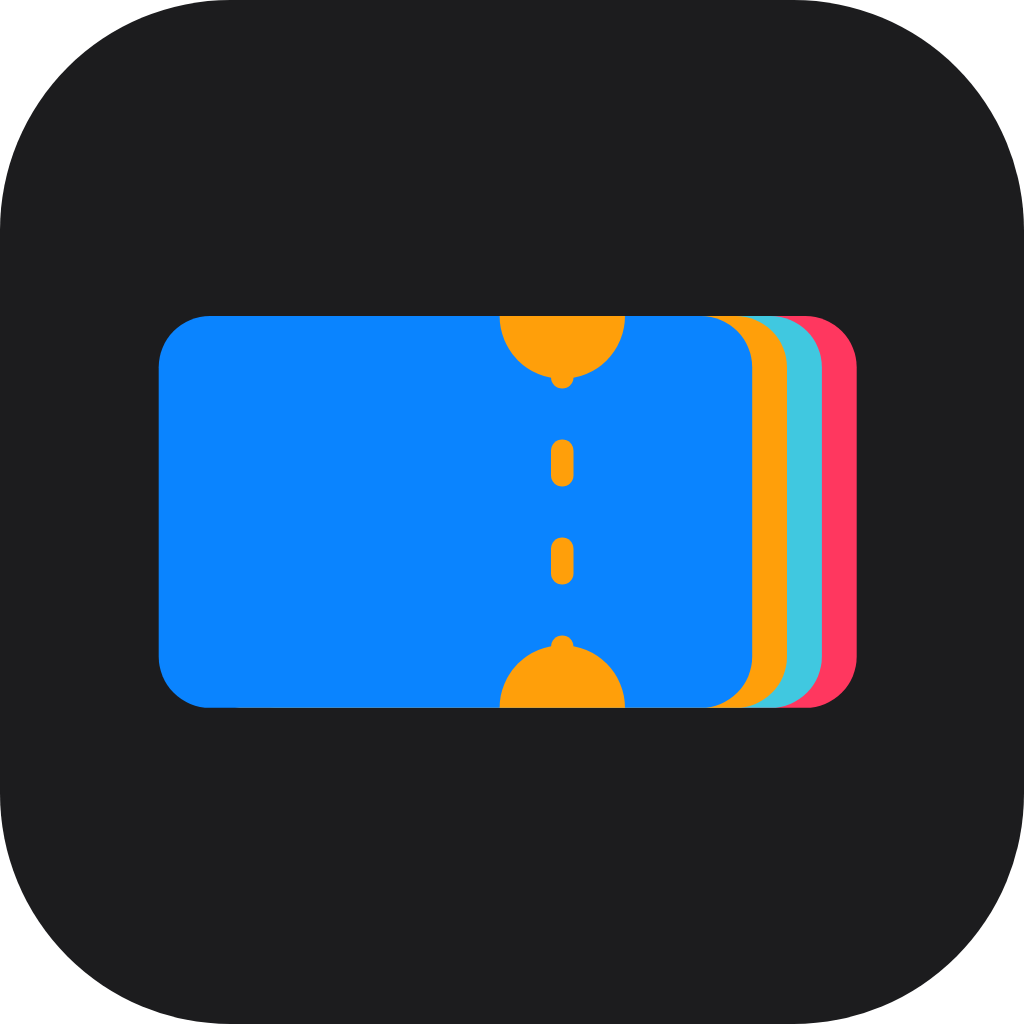
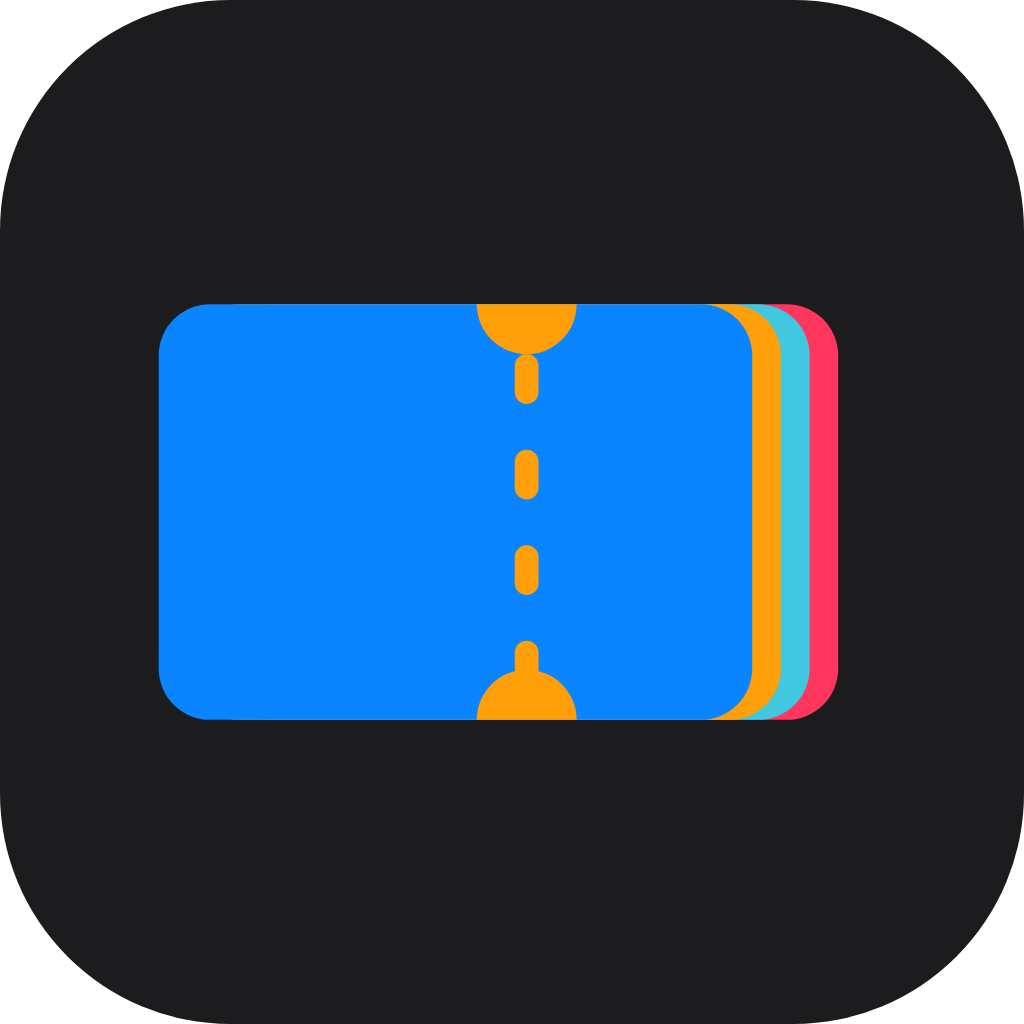
Redraw the mark so it reads as a ticket, and relate the route type to the card
The logo was reported as looking like a capsule. Rendering it at the sizes it is
actually used showed why: the notches were barely a pixel deep at 27px, so all that
survived was a rounded rectangle. Deepening them overcorrected into a bowtie, and
moving the tear line back inboard was needed because the notches cut through every
layer and had been landing on the edges of the cards stacked behind, turning the
right third into a band of competing colour.

Route text was a fixed 27px regardless of viewport, which is what made it overflow
on a desktop window. It now scales with the card.

Changed region(s): [[0.1562, 0.2812, 0.8438, 0.7188], [0.5, 0.4062, 0.5625, 0.5938]]

diff --git a/css/app.css b/css/app.css
@@ -287,8 +287,8 @@ p { margin: 0; }
 
 .bar-mark {
   display: flex;
-  width: 27px;
-  height: 27px;
+  width: 30px;
+  height: 30px;
 }
 
 .bar-mark svg { width: 100%; height: 100%; border-radius: 7px; }
@@ -758,8 +758,8 @@ p { margin: 0; }
 }
 
 .card-route { display: flex; align-items: center; gap: 12px; }
-.card-route .place { font-size: 27px; font-weight: 600; letter-spacing: -0.02em; }
-.card.large .card-route .place { font-size: 34px; }
+.card-route .place { font-size: clamp(21px, 5.8vw, 26px); font-weight: 600; letter-spacing: -0.02em; }
+.card.large .card-route .place { font-size: clamp(26px, 7.4vw, 32px); }
 /* Same reasoning as the pass: a title is not a three-letter code. */
 .card-route .place.single {
   font-size: clamp(15px, 4.4vw, 21px);
@@ -866,7 +866,21 @@ p { margin: 0; }
 .pass-route { display: flex; align-items: center; justify-content: space-between; gap: 14px; }
 .endpoint { min-width: 0; }
 .endpoint.right { text-align: right; }
-.endpoint .code { display: block; font-size: 38px; font-weight: 600; letter-spacing: -0.025em; }
+/*
+ * The route, sized to the card rather than the screen.
+ *
+ * 38px was fixed, which is right on a phone and badly out of proportion in a 620px
+ * column on a desktop — the codes dwarfed everything around them and the hierarchy read
+ * as broken. Scaling with the viewport is no better, since the card does not grow with
+ * it. Clamped values keep the same relationship at both ends.
+ */
+.endpoint .code {
+  display: block;
+  font-size: clamp(26px, 7.4vw, 34px);
+  font-weight: 600;
+  letter-spacing: -0.025em;
+  line-height: 1.05;
+}
 
 /*
  * A single heading — a film, a hotel — rather than an airport code.
@@ -1035,6 +1049,21 @@ p { margin: 0; }
 }
 
 .scan.controls .scan-close { opacity: 1; pointer-events: auto; transform: none; }
+
+/*
+ * Always visible where there is a mouse.
+ *
+ * Hiding the way out until the screen is tapped suits a phone, where the gesture is
+ * natural and the clutter is worth avoiding. With a mouse there is no tap, so the button
+ * simply never appeared and the only exit was the keyboard — the code opened and there
+ * was no way back.
+ */
+@media (hover: hover) and (pointer: fine) {
+  .scan-close { opacity: 1; pointer-events: auto; transform: none; }
+}
+
+/* Keyboard focus must always reveal it, whatever the pointer. */
+.scan-close:focus-visible { opacity: 1; pointer-events: auto; transform: none; }
 
 .scan-hint {
   position: absolute;

diff --git a/js/brand-identity.js b/js/brand-identity.js
@@ -63,12 +63,12 @@ export function markSvg({ size = 512, variant = 'app', bleed = 0.155, colour = n
   const plain = variant === 'plain';
   const p = size * bleed;
   const w = (size - p * 2) * (plain ? 1 : 0.84);
-  const h = w * 0.66;
+  const h = w * 0.7;
   const r = size * 0.05;
   const x = plain ? (size - w) / 2 : p;
   const y = (size - h) / 2;
 
-  const gap = size * 0.034;
+  const gap = size * 0.028;
   const front = plain ? (colour || 'currentColor') : STACK[STACK.length - 1];
 
   const behind = plain ? '' : STACK.slice(0, -1).map((fill, i) => {
@@ -78,11 +78,21 @@ export function markSvg({ size = 512, variant = 'app', bleed = 0.155, colour = n
   }).join('');
 
   // The stub line: notches opposite one another, with the perforation between them.
-  const nx = x + w * 0.68;
-  const nr = h * 0.16;
-  const dw = size * 0.022;
+  //
+  // The notch depth was arrived at by rendering the mark at the sizes it is actually
+  // used and looking at it. Too shallow and it vanishes, leaving a plain rounded
+  // rectangle that reads as a capsule; too deep — as it briefly was — and the two
+  // notches meet the perforation and the whole thing reads as a bowtie. A fifth of the
+  // height was the bowtie; an eighth keeps the tear line legible without pinching the
+  // card's waist.
+  // The tear sits at 0.62 rather than nearer the end. Further right it collided with the
+  // edges of the cards stacked behind, and since the notches cut through every layer the
+  // right third became a band of competing colour rather than a stub.
+  const nx = x + w * 0.62;
+  const nr = h * 0.12;
+  const dw = Math.max(size * 0.02, w * 0.04);
   const dh = h * 0.12;
-  const dashes = [0.125, 0.375, 0.625, 0.875]
+  const dashes = [0.18, 0.41, 0.64, 0.87]
     .map((t) => `<rect x="${(nx - dw / 2).toFixed(1)}" y="${(y + h * t - dh / 2).toFixed(1)}"
         width="${dw.toFixed(1)}" height="${dh.toFixed(1)}" rx="${(dw / 2).toFixed(1)}" fill="#000"/>`)
     .join('');

diff --git a/js/app.js b/js/app.js
@@ -495,7 +495,7 @@ function renderHome() {
 
   // The mark beside the name. Drawn once and left alone.
   const mark = $('home-mark');
-  if (mark && !mark.childElementCount) mark.innerHTML = markSvg({ size: 27 });
+  if (mark && !mark.childElementCount) mark.innerHTML = markSvg({ size: 30 });
 
   if (!state.tickets.length) {
     // No button here. A "+" already sits in the bar above, and offering two controls for
@@ -546,7 +546,7 @@ function renderHome() {
 
 /** Says how soon, in the terms a person would use rather than a formatted timestamp. */
 function nextLabel(ticket) {
-  if (ticket.departsAt == null) return 'Next';
+  if (ticket.departsAt == null) return 'Upcoming';
 
   const diff = ticket.departsAt - Date.now();
   const hours = diff / 3600000;
@@ -558,7 +558,7 @@ function nextLabel(ticket) {
   const days = Math.round(hours / 24);
   if (days === 1) return 'Tomorrow';
   if (days < 7) return `In ${days} days`;
-  return 'Next';
+  return 'Upcoming';
 }
 
 function cardMarkup(ticket, { large = false, dim = false } = {}) {
@@ -2086,6 +2086,18 @@ function wire() {
   const file = $('file');
 
   dropzone.addEventListener('click', () => file.click());
+  // Escape closes whatever is on top. Expected on a desktop, and a keyboard is the only
+  // way out for anyone not using a pointer.
+  document.addEventListener('keydown', (event) => {
+    if (event.key !== 'Escape') return;
+
+    const sheet = document.querySelector('.action-sheet');
+    if (sheet) { sheet.remove(); return; }
+
+    if (!$('screen-scan').hidden) { closeScan(); return; }
+    if (!$('screen-help').hidden || !$('screen-settings').hidden) back();
+  });
+
   dropzone.addEventListener('keydown', (event) => {
     if (event.key === 'Enter' || event.key === ' ') { event.preventDefault(); file.click(); }
   });
